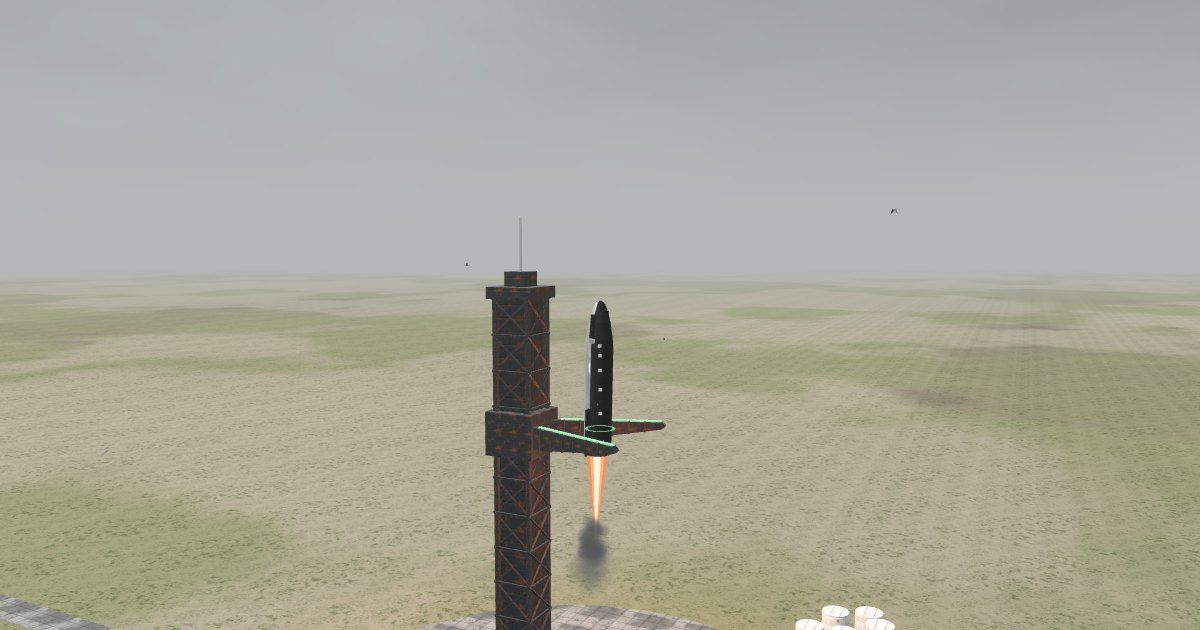
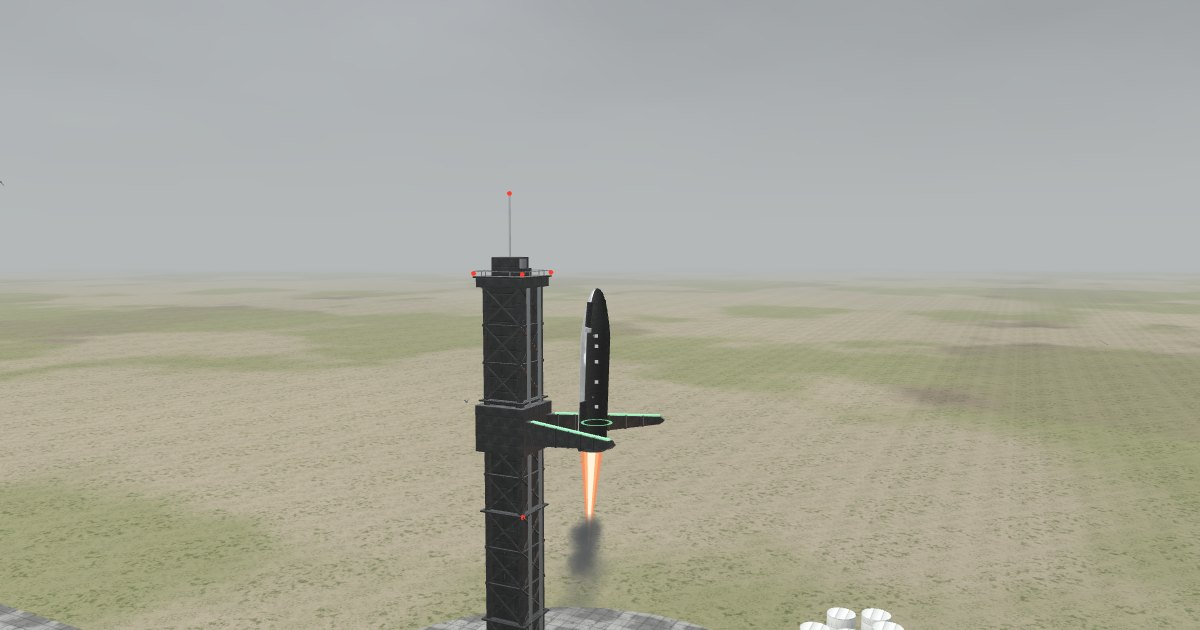
Update Tower Catch: new explosion, clean black tower
Claude-Session: https://claude.ai/code/session_01EkCdenPnt3q3A1LbNSG33z

diff --git a/starship/index.html b/starship/index.html
@@ -262,6 +262,7 @@ let mode = 'title';                             // title | playing | caught | lo
 let level = 1, score = 0, best = 0;
 let ship, fuelMax = 13, windBase = { x: 0, z: 0 }, wind = { x: 0, z: 0 }, gustPhase = 0, t = 0;
 let particles = [], debris = [];
+let blast = null;
 let shake = 0, flash = 0, armDip = 0, armVel = 0, armAngle = ARM.open, resultTimer = 0, pendingResult = null;
 const input = { jx: 0, jy: 0, burn: false };   // jx: screen right, jy: away from camera
 const keys = { l: false, r: false, u: false, d: false };
@@ -296,7 +297,7 @@ function newFlight() {
     ax: dx * lean, az: dz * lean, wx: 0, wz: 0,
     fuel: fuelMax, burning: false, dead: false, hx: 0, hz: 0
   };
-  particles = []; clearDebris();
+  particles = []; clearDebris(); blast = null;
   armDip = 0; armVel = 0; armAngle = ARM.open; shake = 0; flash = 0; pendingResult = null;
   mode = 'playing';
   hideCard();
@@ -356,10 +357,16 @@ function step(dt) {
     const p = particles[i];
     p.life -= dt;
     if (p.life <= 0) { particles[i] = particles[particles.length - 1]; particles.pop(); continue; }
-    p.vy -= (p.type === 1 ? 3 : 1) * dt; p.vx += wind.x * dt; p.vz += wind.z * dt;
+    const ty = p.type;
+    if (ty === 3) { const d = Math.exp(-1.7 * dt); p.vx *= d; p.vy = p.vy * d + 13 * dt; p.vz *= d; }            // fireball: slows, billows upward
+    else if (ty === 4) { const d = Math.exp(-1.1 * dt); p.vx = p.vx * d + wind.x * dt * 2; p.vy = p.vy * d + 6 * dt; p.vz = p.vz * d + wind.z * dt * 2; }   // black smoke: rises, leans with the wind
+    else if (ty === 5) { const d = Math.exp(-0.35 * dt); p.vx *= d; p.vy = p.vy * d - G * dt; p.vz *= d; }        // sparks: ballistic
+    else if (ty === 6) { p.vy += 4 * dt; }
+    else { p.vy -= dt; p.vx += wind.x * dt; p.vz += wind.z * dt; }
     p.x += p.vx * dt; p.y += p.vy * dt; p.z += p.vz * dt;
-    if (p.y < 0.5) { p.y = 0.5; p.vy = 0; p.vx *= 0.9; p.vz *= 0.9; }
+    if (p.y < 0.5) { p.y = 0.5; if (ty === 5) { p.vy *= -0.3; p.life *= 0.6; } else p.vy = 0; p.vx *= 0.9; p.vz *= 0.9; }
   }
+  if (blast) stepBlast(dt);
   for (const d of debris) {
     if (!d.on) continue;
     d.vy -= G * dt; d.x += d.vx * dt; d.y += d.vy * dt; d.z += d.vz * dt; d.r += d.w * dt;
@@ -446,7 +453,7 @@ function lose(title, why, quiet) {
   s.dead = true; s.burning = false;
   mode = 'lost';
   if (!quiet) { explode(s); sfxBoom(); }
-  resultTimer = quiet ? 0.2 : 1.4;
+  resultTimer = quiet ? 0.2 : 2.6;
   pendingResult = () => showCard(
     '<div class="eyebrow">Flight ' + level + ' · vehicle lost</div>' +
     '<h1 class="fail">' + title + '</h1>' +
@@ -481,9 +488,9 @@ function predict() {
 }
 
 // ---------- particles ----------
-function puff(x, y, z, vx, vy, vz, life, type) {            // type 0 smoke, 1 fire, 2 vent
-  if (particles.length > 800) return;
-  particles.push({ x, y, z, vx, vy, vz, life, max: life, type, size: 3 + Math.random() * 4 });
+function puff(x, y, z, vx, vy, vz, life, type, size) {      // type 0 exhaust smoke, 2 vent, 3 fireball, 4 black smoke, 5 spark, 6 ember
+  if (particles.length > (type >= 3 ? 2500 : 800)) return;
+  particles.push({ x, y, z, vx, vy, vz, life, max: life, type, size: size || 3 + Math.random() * 4, rot: Math.random() * 6.283, spin: (Math.random() - 0.5) * 1.6 });
 }
 function emitExhaust(s, u) {
   if (Math.random() < 0.5) {
@@ -493,20 +500,59 @@ function emitExhaust(s, u) {
       0.5 + Math.random() * 0.5, 0);
   }
 }
+const rnd = (a, b) => a + Math.random() * (b - a);
+const rdir = () => { const a = Math.random() * 6.283, c = Math.random() * 2 - 1, r = Math.sqrt(1 - c * c); return [Math.cos(a) * r, c, Math.sin(a) * r]; };
+// one detonation: a ball of fire, the black smoke it turns into, and a spray of sparks
+function burst(x, y, z, k, ivx, ivy, ivz, ax) {
+  const along = () => ax ? (Math.random() - 0.5) * 2 * HALF : 0;
+  for (let i = 0; i < 150 * k; i++) {
+    const d = rdir(), v = rnd(8, 70) * k, a = along(), o = rnd(0, 6);
+    puff(x + (ax ? a * ax.x : 0) + d[0] * o, Math.max(1, y + (ax ? a * ax.y : 0) + d[1] * o), z + (ax ? a * ax.z : 0) + d[2] * o,
+      ivx + d[0] * v, ivy + d[1] * v * 0.8 + 10 * k, ivz + d[2] * v, rnd(1.1, 2.7), 3, rnd(12, 26) * k);
+  }
+  for (let i = 0; i < 90 * k; i++) {
+    const d = rdir(), v = rnd(5, 42) * k, a = along();
+    puff(x + (ax ? a * ax.x : 0) + d[0] * 5, Math.max(1, y + (ax ? a * ax.y : 0) + d[1] * 5), z + (ax ? a * ax.z : 0) + d[2] * 5,
+      ivx * 0.6 + d[0] * v, ivy * 0.4 + d[1] * v * 0.7 + 8, ivz * 0.6 + d[2] * v, rnd(3.5, 7.5), 4, rnd(16, 34) * k);
+  }
+  for (let i = 0; i < 240 * k; i++) {
+    const d = rdir(), v = rnd(35, 160) * k;
+    puff(x + d[0] * 3, Math.max(1, y + d[1] * 3), z + d[2] * 3, ivx + d[0] * v, ivy + Math.abs(d[1]) * v * 0.9 + d[1] * v * 0.3, ivz + d[2] * v, rnd(0.8, 2.6), 5, rnd(0.6, 1.5));
+  }
+}
 function explode(s) {
   const u = axisOf(s);
-  const dir = () => { const a = Math.random() * 6.283, c = Math.random() * 2 - 1, r = Math.sqrt(1 - c * c); return [Math.cos(a) * r, c, Math.sin(a) * r]; };
-  for (let i = 0; i < 220; i++) {
-    const k = (Math.random() - 0.5) * 2 * HALF, d = dir(), v = 8 + Math.random() * 55;
-    puff(s.x + k * u.x, Math.max(1, s.y + k * u.y), s.z + k * u.z, s.vx * 0.3 + d[0] * v, s.vy * 0.1 + d[1] * v + 12, s.vz * 0.3 + d[2] * v, 0.8 + Math.random() * 1.8, i % 3 ? 1 : 0);
-  }
+  blast = { x: s.x, y: Math.max(2, s.y), z: s.z, y0: Math.max(2, s.y), vy: Math.min(0, s.vy) * 0.3, t: 0, next: [0.2, 0.45, 0.85] };
+  burst(blast.x, blast.y, blast.z, 1, s.vx * 0.3, s.vy * 0.1, s.vz * 0.3, u);
   for (const d of debris) {
-    const k = (Math.random() - 0.5) * 2 * HALF, q = dir(), v = 15 + Math.random() * 40;
+    const k = (Math.random() - 0.5) * 2 * HALF, q = rdir(), v = 20 + Math.random() * 55;
     d.on = true; d.x = s.x + k * u.x; d.y = Math.max(1, s.y + k * u.y); d.z = s.z + k * u.z;
-    d.vx = s.vx * 0.4 + q[0] * v; d.vy = Math.abs(q[1]) * v + 8; d.vz = s.vz * 0.4 + q[2] * v; d.r = Math.random() * 6; d.w = (Math.random() - 0.5) * 9;
+    d.vx = s.vx * 0.4 + q[0] * v; d.vy = Math.abs(q[1]) * v + 12; d.vz = s.vz * 0.4 + q[2] * v; d.r = Math.random() * 6; d.w = (Math.random() - 0.5) * 9;
   }
   flash = 1;
-  if (!reduceMotion) shake = 1;
+  if (!reduceMotion) shake = 1.4;
+}
+// after the first blast: the tanks go in turn, the wreck falls and burns, and flying pieces trail fire
+function stepBlast(dt) {
+  const b = blast; b.t += dt;
+  while (b.next.length && b.t >= b.next[0]) {
+    b.next.shift();
+    const d = rdir(), o = rnd(8, 18);
+    burst(b.x + d[0] * o, Math.max(2, b.y + d[1] * o), b.z + d[2] * o, 0.55, 0, 6, 0, null);
+    if (!reduceMotion) shake = Math.max(shake, 0.7);
+    flash = Math.max(flash, 0.5);
+  }
+  b.vy -= G * 0.7 * dt; b.y = Math.max(2, b.y + b.vy * dt);
+  const burn = 1 - b.t / 7;
+  if (burn > 0) {
+    if (Math.random() < 70 * burn * dt) puff(b.x + rnd(-9, 9), b.y + rnd(0, 4), b.z + rnd(-9, 9), rnd(-3, 3), rnd(8, 20), rnd(-3, 3), rnd(0.7, 1.4), 3, rnd(7, 14));
+    if (Math.random() < 22 * burn * dt) puff(b.x + rnd(-8, 8), b.y + rnd(4, 10), b.z + rnd(-8, 8), rnd(-3, 3), rnd(10, 18), rnd(-3, 3), rnd(4, 7), 4, rnd(12, 22));
+    for (const d of debris) {
+      if (!d.on || Math.abs(d.vx) + Math.abs(d.vy) + Math.abs(d.vz) < 6) continue;
+      if (Math.random() < 45 * dt) puff(d.x, d.y, d.z, d.vx * 0.2, d.vy * 0.2, d.vz * 0.2, rnd(0.35, 0.8), 6, rnd(2, 4.5));
+      if (Math.random() < 14 * dt) puff(d.x, d.y, d.z, d.vx * 0.1, d.vy * 0.1 + 2, d.vz * 0.1, rnd(1.5, 3), 4, rnd(4, 8));
+    }
+  } else if (b.t > 9) blast = null;
 }
 function clearDebris() { for (const d of debris) d.on = false; }
 
@@ -535,18 +581,17 @@ function hexCell(x, y) {                         // d: 0 at tile centre, 0.5 at 
 }
 
 // each painter fills o = { h (height), r, g, b (sRGB albedo), rough, metal } for a point (u, v) of the tile
-function paintSteel(o, u, v) {                    // dark painted structural steel: plates, rivets, chips, rust
+function paintSteel(o, u, v) {                    // black painted structural steel: plates, weld seams, bolts, a little wear
   const n = fbm(u, v, 4, 5, 11), n2 = fbm(u, v, 16, 4, 23), pu = fr(u * 2), pv = fr(v * 2);
   const e = Math.min(pu, 1 - pu, pv, 1 - pv), seam = 1 - sstep(0.004, 0.014, e);
   const ru = fr(u * 32) - 0.5, rv = fr(v * 32) - 0.5, rivet = e > 0.02 && e < 0.047 ? 1 - sstep(0.03, 0.07, ru * ru + rv * rv) : 0;
-  const rust = sstep(0.68, 0.8, n + (0.05 - Math.min(e, 0.05)) * 2.2 + n2 * 0.1), chip = sstep(0.8, 0.83, n2) * (1 - rust);
-  const streak = fbm(u * 6, v * 0.5, 8, 3, 41), sh = 0.75 + 0.5 * n2 - 0.25 * streak;
-  let r = 0.125 * sh, g = 0.135 * sh, b = 0.15 * sh, rough = 0.5 + 0.2 * n, metal = 0;
-  r += (0.62 - r) * chip; g += (0.63 - g) * chip; b += (0.65 - b) * chip; rough += (0.3 - rough) * chip; metal = chip;
-  const rr = 0.3 + 0.2 * n2;
-  r += (rr - r) * rust; g += (rr * 0.5 - g) * rust; b += (rr * 0.22 - b) * rust; rough += (0.95 - rough) * rust; metal *= 1 - rust;
-  o.h = 0.5 - seam * 0.5 + rivet * 0.5 + rust * 0.12 * n2 - chip * 0.08 + n2 * 0.04;
-  o.r = r * (1 - seam * 0.5); o.g = g * (1 - seam * 0.5); o.b = b * (1 - seam * 0.5); o.rough = rough; o.metal = metal;
+  const chip = sstep(0.86, 0.89, n2) * 0.7, streak = fbm(u * 6, v * 0.5, 8, 3, 41), sh = 0.85 + 0.3 * n2 - 0.18 * streak;
+  const dust = sstep(0.55, 0.8, n) * 0.25;                    // pale salt and dust film, never rust
+  let r = 0.085 * sh, g = 0.09 * sh, b = 0.098 * sh, rough = 0.42 + 0.2 * n + dust * 0.6, metal = 0;
+  r += (0.3 - r) * dust; g += (0.3 - g) * dust; b += (0.29 - b) * dust;
+  r += (0.55 - r) * chip; g += (0.56 - g) * chip; b += (0.58 - b) * chip; rough += (0.32 - rough) * chip; metal = chip;
+  o.h = 0.5 - seam * 0.5 + rivet * 0.5 - chip * 0.08 + n2 * 0.04;
+  o.r = r * (1 - seam * 0.45); o.g = g * (1 - seam * 0.45); o.b = b * (1 - seam * 0.45); o.rough = rough; o.metal = metal;
 }
 function paintBare(o, u, v) {                     // brushed bare steel
   const br = fbm(u * 0.25, v * 8, 16, 4, 61), n = fbm(u, v, 4, 4, 67), c = 0.7 + 0.12 * br;
@@ -602,7 +647,7 @@ function paintGround(o, u, v) {                   // close-up coastal flat: pack
 }
 function paintTank(o, u, v) {                     // white painted tank shells: ring seams, runs of grime
   const bands = v * 4, bf = fr(bands), seam = 1 - sstep(0.0, 0.03, Math.min(bf, 1 - bf));
-  const streak = fbm(u * 8, v * 0.6, 8, 4, 151), n = fbm(u, v, 8, 4, 157), rust = sstep(0.72, 0.85, n + seam * 0.2) * 0.7;
+  const streak = fbm(u * 8, v * 0.6, 8, 4, 151), n = fbm(u, v, 8, 4, 157), rust = sstep(0.86, 0.95, n + seam * 0.1) * 0.35;
   let r = 0.8 - 0.22 * streak * (1 - bf) - seam * 0.2, g = r, b = r * 0.98;
   r += (0.4 - r) * rust; g += (0.22 - g) * rust; b += (0.1 - b) * rust;
   o.h = 0.5 + seam * 0.4 + n * 0.05; o.r = r; o.g = g; o.b = b; o.rough = 0.42 + 0.25 * streak + rust * 0.4; o.metal = 0;
@@ -649,7 +694,7 @@ function buildScene() {
   };
   const txSteel = makePBR(512, 512, paintSteel, 5, 3), txBare = makePBR(256, 256, paintBare, 2, 1), txTiles = makePBR(256, 256, paintTiles, 5, 2.5);
   const txHull = makePBR(1024, 1024, paintHull, 4, 2.5), txConc = makePBR(512, 512, paintConcrete, 5, 2.5), txGround = makePBR(512, 512, paintGround, 6, 2), txTank = makePBR(256, 256, paintTank, 3, 2);
-  const steel = std(txSteel, 6), armMat = std(txSteel, 5, { color: 0xd8dde4 }), core = std(txSteel, 9, { color: 0x8a8f96 }), mountMat = std(txSteel, 7, { color: 0xc9c2b8 });
+  const steel = std(txSteel, 6), armMat = std(txSteel, 5, { color: 0xd8dde4 }), core = std(txSteel, 9, { color: 0x8a8f96 }), mountMat = std(txSteel, 7, { color: 0xdcdcdc }), railSteel = std(txBare, 4, { color: 0x8d9298 });
   const bare = std(txBare, 2), tileMat = std(txTiles, 3), hullMat = std(txHull, 1, { envMapIntensity: 1.25 });
   const concrete = std(txConc, 24, { polygonOffset: true, polygonOffsetFactor: -6, polygonOffsetUnits: -6 }), groundMat = std(txGround, 18), tankMat = std(txTank, 14);
 
@@ -738,7 +783,18 @@ function buildScene() {
     P.set((a[0] + b[0]) / 2, y1, (a[1] + b[1]) / 2); horiz.setMatrixAt(hi++, M.compose(P, Q, S));
   }
   scene.add(diag, horiz);
-  box(17, 4, 17, steel, 0, TOWER.h + 2, 0); box(8, 5, 8, steel, 0, TOWER.h + 6.5, 0); box(0.6, 18, 0.6, bare, 0, TOWER.h + 18, 0);
+  // work platforms, the rails the arm carriage rides on, a service run up the back, and the crown with its hoist house
+  for (let i = 3; i < 12; i += 3) box(16.4, 0.5, 16.4, steel, 0, i * dy, 0);
+  for (const z of [-3.4, 3.4]) box(0.9, TOWER.h - 4, 0.9, railSteel, c + 0.75, TOWER.h / 2 + 2, z);
+  box(1.6, TOWER.h, 4.6, core, -c - 0.9, TOWER.h / 2, 0);
+  for (const z of [-4.6, -3.6, 3.8]) cyl(0.35, TOWER.h - 2, railSteel, -c - 0.5, TOWER.h / 2, z);
+  box(17, 3, 17, steel, 0, TOWER.h + 1.5, 0); box(18.4, 0.5, 18.4, steel, 0, TOWER.h + 3.25, 0);
+  for (const sx of [-1, 1]) for (const sz of [-1, 1]) for (const o of [0, 1]) box(0.25, 1.6, 0.25, railSteel, sx * (o ? 9 : 4.5), TOWER.h + 4.3, sz * (o ? 4.5 : 9));
+  for (const sgn of [-1, 1]) { box(18.2, 0.2, 0.2, railSteel, 0, TOWER.h + 5.1, sgn * 9.1); box(0.2, 0.2, 18.2, railSteel, sgn * 9.1, TOWER.h + 5.1, 0); }
+  box(9, 6, 8, steel, -1, TOWER.h + 6.5, 0); box(5, 2.5, 5, core, 3, TOWER.h + 4.75, 0); cyl(1.6, 3, railSteel, 3.4, TOWER.h + 7.5, 0);
+  box(0.5, 20, 0.5, bare, -1, TOWER.h + 19.5, 0);
+  const beaconMat = new T.MeshBasicMaterial({ color: lin(0xff3a2e), fog: false }), beaconG = new T.SphereGeometry(0.75, 10, 8);
+  for (const [x, y, z] of [[-1, TOWER.h + 29.8, 0], [9, TOWER.h + 4.4, 9], [-9, TOWER.h + 4.4, 9], [9, TOWER.h + 4.4, -9], [-9, TOWER.h + 4.4, -9], [7.6, 6 * dy, 7.6], [-7.6, 6 * dy, -7.6]]) { const m = new T.Mesh(beaconG, beaconMat); m.position.set(x, y, z); scene.add(m); }
 
   // catch arms: tapered beams pivoting at the tower face, with a lit status rail on top
   const armGroup = new T.Group(); scene.add(armGroup);
@@ -777,7 +833,7 @@ function buildScene() {
   const coneG = new T.ConeGeometry(1, 1, 18, 1, true); coneG.rotateX(Math.PI); coneG.translate(0, -0.5, 0);
   const fl = (r, c, o) => { const m = new T.Mesh(coneG, new T.MeshBasicMaterial({ color: lin(c), transparent: true, opacity: o, depthWrite: false, fog: false, side: T.DoubleSide })); m.scale.set(r, 1, r); flame.add(m); return m; };
   fl(3.6, 0xff8a5b, 0.5); fl(2.4, 0xffb37a, 0.75); fl(1.3, 0xfff3dc, 0.95);
-  const glowL = new T.PointLight(lin(0xff9a6a), 0, 260, 2); glowL.position.y = -HALF - 12; shipG.add(glowL);
+  const glowL = new T.PointLight(lin(0xffb48a), 0, 110, 2); glowL.position.y = -HALF - 12; shipG.add(glowL);
 
   const shadow = new T.Mesh(new T.CircleGeometry(7, 24), new T.MeshBasicMaterial({ color: 0x000000, transparent: true, opacity: 0.3, depthWrite: false, polygonOffset: true, polygonOffsetFactor: -10, polygonOffsetUnits: -10 }));
   shadow.rotation.x = -Math.PI / 2; scene.add(shadow);
@@ -789,18 +845,33 @@ function buildScene() {
   const ringMat = new T.MeshBasicMaterial({ color: lin(0xffc857), transparent: true, opacity: 0.95, depthTest: false, fog: false, side: T.DoubleSide });
   const ring = new T.Mesh(new T.RingGeometry(R - 0.5, R + 0.5, 40), ringMat); ring.rotation.x = -Math.PI / 2; ring.renderOrder = 6; scene.add(ring);
 
-  // particles: soft round points sized in metres
-  const PMAX = 900, pPos = new Float32Array(PMAX * 3), pCol = new Float32Array(PMAX * 4), pSize = new Float32Array(PMAX);
+  // particles: lumpy, slowly turning puffs sized in metres. Premultiplied blending lets one layer hold
+  // smoke that hides what is behind it and fire that glows on top of it.
+  const puffC = canvasTex(64, 64), pd = puffC.x.createImageData(64, 64);
+  for (let y = 0, i = 0; y < 64; y++) for (let x = 0; x < 64; x++, i += 4) {
+    const u = (x + 0.5) / 64, v = (y + 0.5) / 64, d = Math.hypot(u - 0.5, v - 0.5) * 2, m = sstep(1.0, 0.25, d + (fbm(u, v, 4, 4, 401) - 0.5) * 0.9) * 255;
+    pd.data[i] = pd.data[i + 1] = pd.data[i + 2] = m; pd.data[i + 3] = 255;
+  }
+  puffC.x.putImageData(pd, 0, 0); puffC.t.wrapS = puffC.t.wrapT = T.ClampToEdgeWrapping;
+  const PMAX = 2600, pPos = new Float32Array(PMAX * 3), pCol = new Float32Array(PMAX * 4), pSize = new Float32Array(PMAX), pRot = new Float32Array(PMAX);
   const pG = new T.BufferGeometry();
   pG.setAttribute('position', new T.BufferAttribute(pPos, 3));
   pG.setAttribute('aCol', new T.BufferAttribute(pCol, 4));
   pG.setAttribute('aSize', new T.BufferAttribute(pSize, 1));
+  pG.setAttribute('aRot', new T.BufferAttribute(pRot, 1));
   const pMat = new T.ShaderMaterial({
-    uniforms: { uScale: { value: 1 } }, transparent: true, depthWrite: false,
-    vertexShader: 'attribute vec4 aCol; attribute float aSize; varying vec4 vCol; uniform float uScale; void main(){ vCol=aCol; vec4 mv=modelViewMatrix*vec4(position,1.0); gl_PointSize=aSize*uScale/max(1.0,-mv.z); gl_Position=projectionMatrix*mv; }',
-    fragmentShader: 'varying vec4 vCol; void main(){ float d=length(gl_PointCoord-0.5); gl_FragColor=vec4(vCol.rgb, vCol.a*smoothstep(0.5,0.15,d)); }'
+    uniforms: { uScale: { value: 1 }, uTex: { value: puffC.t } }, transparent: true, depthWrite: false,
+    blending: T.CustomBlending, blendSrc: T.OneFactor, blendDst: T.OneMinusSrcAlphaFactor, blendSrcAlpha: T.OneFactor, blendDstAlpha: T.OneMinusSrcAlphaFactor,
+    vertexShader: 'attribute vec4 aCol; attribute float aSize; attribute float aRot; varying vec4 vCol; varying float vRot; uniform float uScale; void main(){ vCol=aCol; vRot=aRot; vec4 mv=modelViewMatrix*vec4(position,1.0); gl_PointSize=aSize*uScale/max(1.0,-mv.z); gl_Position=projectionMatrix*mv; }',
+    fragmentShader: 'uniform sampler2D uTex; varying vec4 vCol; varying float vRot; void main(){ vec2 p=gl_PointCoord-0.5; float c=cos(vRot), s=sin(vRot); float m=texture2D(uTex, vec2(c*p.x-s*p.y, s*p.x+c*p.y)+0.5).r*smoothstep(0.5,0.4,length(p)); gl_FragColor=vec4(vCol.rgb*m, vCol.a*m); }'
   });
   const pts = new T.Points(pG, pMat); pts.frustumCulled = false; pts.renderOrder = 4; scene.add(pts);
+
+  // explosion extras: a light that paints the site orange, a shock front, and a dust ring along the ground
+  const blastL = new T.PointLight(lin(0xff8a3c), 0, 1400, 1.6); scene.add(blastL);
+  const shock = new T.Mesh(new T.SphereGeometry(1, 24, 12), new T.MeshBasicMaterial({ color: lin(0xffe2b0), transparent: true, opacity: 0, depthWrite: false, fog: false, blending: T.AdditiveBlending })); shock.visible = false; scene.add(shock);
+  const dustRing = new T.Mesh(new T.RingGeometry(0.72, 1, 48), new T.MeshBasicMaterial({ color: lin(0xcbbfa6), transparent: true, opacity: 0, depthWrite: false, side: T.DoubleSide, polygonOffset: true, polygonOffsetFactor: -12, polygonOffsetUnits: -12 }));
+  dustRing.rotation.x = -Math.PI / 2; dustRing.visible = false; scene.add(dustRing);
 
   for (let i = 0; i < 18; i++) {
     const sz = 1.5 + Math.random() * 3.5, m = box(sz, sz * 0.4, sz * 0.8, i % 2 ? bare : tileMat, 0, -50, 0); m.visible = false;
@@ -816,8 +887,8 @@ function buildScene() {
     birds.push({ g, a, b, rad: 90 + Math.random() * 260, h: 35 + Math.random() * 150, sp: (0.04 + Math.random() * 0.05) * (i % 2 ? 1 : -1), ph: Math.random() * 6.28, cx: (Math.random() - 0.5) * 200, cz: (Math.random() - 0.5) * 200 });
   }
 
-  gfx = { sky, armGroup, arms, railMat, shipG, flame, glowL, shadow, predG, predPts, ring, ringMat, pG, pPos, pCol, pSize, pMat, PMAX, birds, up: new T.Vector3(0, 1, 0), v: new T.Vector3(),
-    cGo: lin(0x7ee0a1), cWarn: lin(0xffc857) };
+  gfx = { beaconMat, sky, armGroup, arms, railMat, shipG, flame, glowL, shadow, predG, predPts, ring, ringMat, pG, pPos, pCol, pSize, pRot, pMat, PMAX, blastL, shock, dustRing, birds, up: new T.Vector3(0, 1, 0), v: new T.Vector3(),
+    cGo: lin(0x7ee0a1), cWarn: lin(0xffc857), cBeacon: lin(0xff3a2e) };
 }
 
 function resize() {
@@ -869,10 +940,11 @@ function render(now, dt) {
   q.shipG.quaternion.setFromUnitVectors(q.up, q.v.set(u.x, u.y, u.z));
   q.flame.visible = s.burning;
   if (s.burning) q.flame.scale.y = 30 + Math.random() * 12;
-  q.glowL.intensity = s.burning ? 2.2 + Math.random() * 0.6 : 0;
+  q.glowL.intensity = s.burning ? 0.7 + Math.random() * 0.2 : 0;
   q.shadow.visible = !s.dead; q.shadow.position.set(s.x, 0.5, s.z);
   q.shadow.material.opacity = 0.34 * clamp(1 - s.y / 700, 0.15, 1);
 
+  q.beaconMat.color.setScalar(1).multiply(q.cBeacon).multiplyScalar(0.35 + 0.65 * (Math.sin(now * 3) > 0.2 ? 1 : 0));
   q.armGroup.position.y = ARM.y + armDip;
   for (const a of q.arms) a.g.rotation.y = -a.sgn * armAngle;
   const e = envelope();
@@ -888,15 +960,37 @@ function render(now, dt) {
   let n = 0;
   for (const p of particles) {
     if (n >= q.PMAX) break;
-    const k = p.life / p.max, i3 = n * 3, i4 = n * 4;
-    q.pPos[i3] = p.x; q.pPos[i3 + 1] = p.y; q.pPos[i3 + 2] = p.z;
-    if (p.type === 1) { q.pCol[i4] = 1; q.pCol[i4 + 1] = 0.42 + 0.5 * k; q.pCol[i4 + 2] = 0.2 + 0.25 * k * k; q.pCol[i4 + 3] = k * 0.95; q.pSize[n] = p.size * (2.4 - k); }
-    else if (p.type === 2) { q.pCol[i4] = q.pCol[i4 + 1] = q.pCol[i4 + 2] = 0.95; q.pCol[i4 + 3] = k * 0.1; q.pSize[n] = p.size * (2.0 - k); }
-    else { q.pCol[i4] = 0.33; q.pCol[i4 + 1] = 0.34; q.pCol[i4 + 2] = 0.35; q.pCol[i4 + 3] = k * 0.4; q.pSize[n] = p.size * (3.4 - k * 2); }
+    const k = p.life / p.max, a = 1 - k, i3 = n * 3, i4 = n * 4, ty = p.type;
+    q.pPos[i3] = p.x; q.pPos[i3 + 1] = p.y; q.pPos[i3 + 2] = p.z; q.pRot[n] = p.rot + p.spin * a * p.max;
+    let r, g, b, al, sz;
+    if (ty === 3) {                                   // fireball: white-hot, then yellow, orange, deep red, gone
+      const I = (a < 0.08 ? 1.7 : 1.45) * Math.pow(k, 1.15);
+      if (a < 0.3) { const f = a / 0.3; r = 1; g = 0.95 - 0.37 * f; b = 0.72 - 0.6 * f; }
+      else if (a < 0.7) { const f = (a - 0.3) / 0.4; r = 1 - 0.2 * f; g = 0.58 - 0.38 * f; b = 0.12 - 0.09 * f; }
+      else { const f = (a - 0.7) / 0.3; r = 0.8 - 0.5 * f; g = 0.2 - 0.14 * f; b = 0.03; }
+      r *= I; g *= I; b *= I; al = 0.7 * Math.pow(k, 0.6); sz = p.size * (0.45 + 1.25 * Math.sqrt(a));
+    } else if (ty === 4) {                            // black smoke, lit from inside while young
+      al = 0.72 * Math.min(1, a / 0.1) * Math.pow(k, 1.1);
+      const c = 0.045 + 0.1 * a, hot = 0.35 * Math.pow(k, 7);
+      r = (c + hot) * al; g = (c + hot * 0.35) * al; b = c * al; sz = p.size * (0.6 + 1.7 * a);
+    } else if (ty === 5) { const I = 2.2 * Math.sqrt(k); r = I; g = 0.72 * I; b = 0.3 * I; al = 0; sz = p.size; }
+    else if (ty === 6) { const I = 1.5 * k; r = I; g = 0.5 * I; b = 0.1 * I; al = 0.25 * k; sz = p.size * (1 + a); }
+    else if (ty === 2) { al = k * 0.1; r = g = b = 0.95 * al; sz = p.size * (2.0 - k); }
+    else { al = k * 0.4; r = 0.33 * al; g = 0.34 * al; b = 0.35 * al; sz = p.size * (3.4 - k * 2); }
+    q.pCol[i4] = r; q.pCol[i4 + 1] = g; q.pCol[i4 + 2] = b; q.pCol[i4 + 3] = al; q.pSize[n] = sz;
     n++;
   }
+  if (blast) {
+    const t = blast.t;
+    q.blastL.position.set(blast.x, blast.y + 10, blast.z);
+    q.blastL.intensity = 16 * Math.exp(-t * 2.4) + 3 * Math.max(0, 1 - t / 7) * (0.75 + 0.5 * Math.random());
+    q.shock.visible = t < 0.55;
+    if (q.shock.visible) { q.shock.position.set(blast.x, blast.y0, blast.z); q.shock.scale.setScalar(18 + t * 300); q.shock.material.opacity = 0.32 * (1 - t / 0.55); }
+    q.dustRing.visible = blast.y0 < 80 && t < 1.6;
+    if (q.dustRing.visible) { q.dustRing.position.set(blast.x, 0.6, blast.z); q.dustRing.scale.setScalar(20 + t * 190); q.dustRing.material.opacity = 0.4 * (1 - t / 1.6); }
+  } else { q.blastL.intensity = 0; q.shock.visible = q.dustRing.visible = false; }
   q.pG.setDrawRange(0, n);
-  q.pG.attributes.position.needsUpdate = q.pG.attributes.aCol.needsUpdate = q.pG.attributes.aSize.needsUpdate = true;
+  q.pG.attributes.position.needsUpdate = q.pG.attributes.aCol.needsUpdate = q.pG.attributes.aSize.needsUpdate = q.pG.attributes.aRot.needsUpdate = true;
   q.pMat.uniforms.uScale.value = renderer.domElement.height / (2 * Math.tan(camera.fov * Math.PI / 360));
 
   for (const d of debris) { d.m.visible = d.on; if (d.on) { d.m.position.set(d.x, d.y, d.z); d.m.rotation.set(d.r, d.r * 0.7, d.r * 1.3); } }
